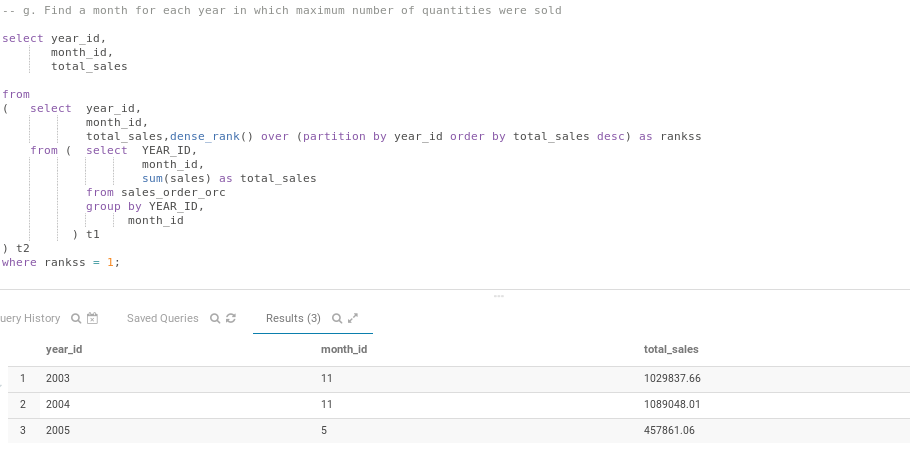
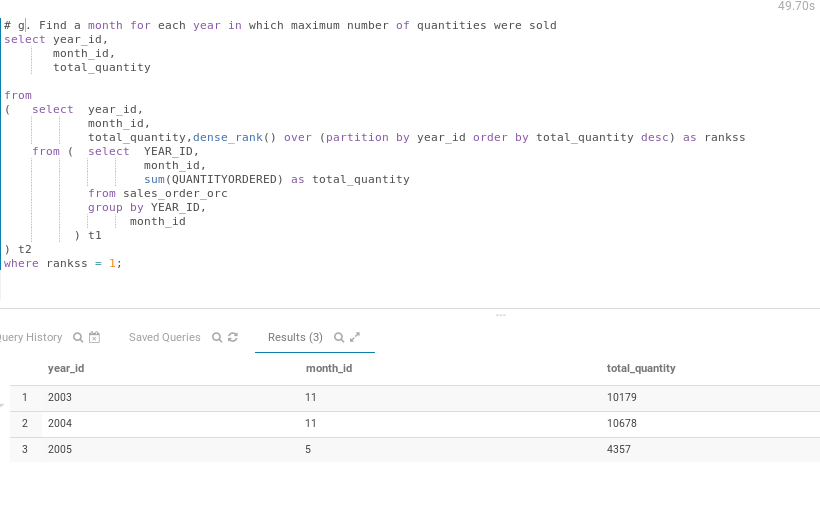
query_updated

diff --git a/assignments/assignment_1_sales_order_data/README.md b/assignments/assignment_1_sales_order_data/README.md
@@ -241,7 +241,7 @@ from
             total_sales,dense_rank() over (partition by year_id order by total_sales desc) as rankss 
     from (  select  YEAR_ID,
                     month_id,
-                    sum(sales) as total_sales 
+                    sum(QUANTITYORDERED) as total_sales 
             from sales_order_orc 
             group by YEAR_ID,
                   month_id
